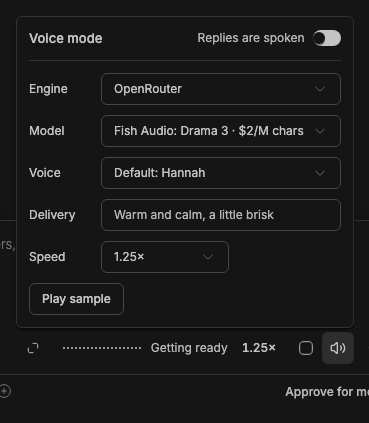
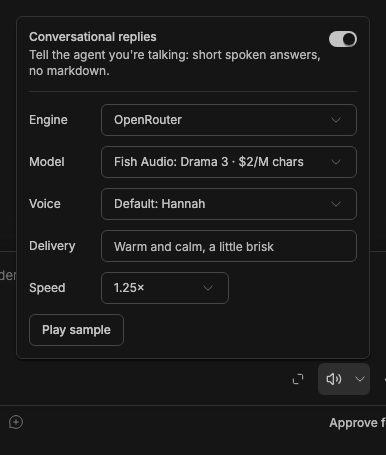
Voice mode: staged screenshots of the split speaker button and its menu

diff --git a/packages/bb-studio/README.md b/packages/bb-studio/README.md
@@ -2002,9 +2002,9 @@ piece being read is lit in the transcript. Recapture with
 
   ![Live BB screenshot of the voice menu above a thread's composer](assets/voice-menu.png)
 
-  Captured from a staged BB: the voice menu open above a voice chat's
-  composer, with voice mode on, OpenRouter's Fish Drama 3 and its default
-  voice Hannah, and speed 1.25×. Recapture with
+  Captured from a staged BB: the voice menu, opened from the caret beside
+  a voice chat's speaker button, with Conversational replies on, OpenRouter's
+  Fish Drama 3 and its default voice Hannah, and speed 1.25×. Recapture with
   `BB_CAPTURE_ONLY=studio-voice-menu`. In a new
   thread's composer the same spot starts a **New voice chat**, as does the
   *New voice chat* command: a thread on GPT-6-Luna's fast tier, in the
